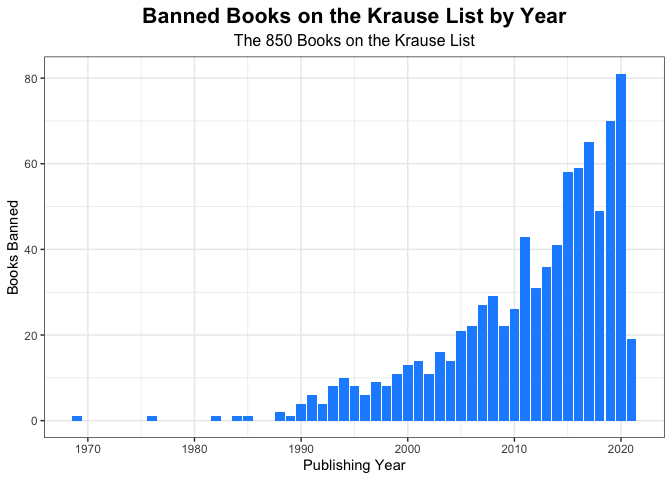
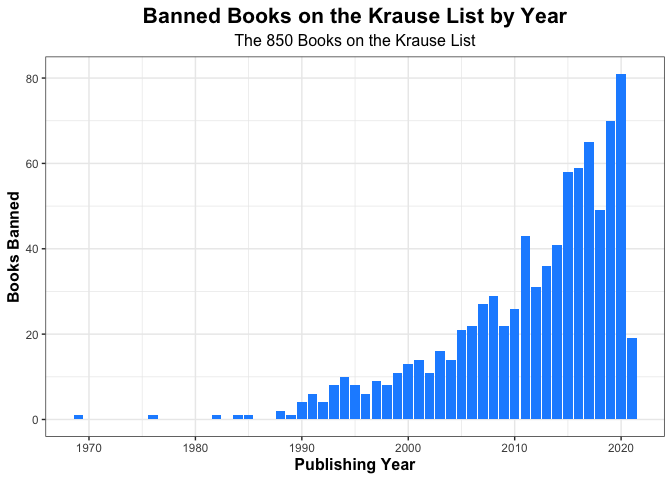
Added Author count and adjusted axis titles

diff --git a/BannedBooks.md b/BannedBooks.md
@@ -13,11 +13,23 @@ books, one PDF and on XLSX. This list can also be accessed
 
 ### By Year and Author
 
+#### By Year
+
 Below is a look at the distribution of the banned books by year.
 
-![](BannedBooks_files/figure-gfm/year-1.png)<!-- -->
+<img src="BannedBooks_files/figure-gfm/year-1.png" style="display: block; margin: auto;" />
 
 The data shows that Krause is primarily concerned with books that were
 published in the last decade, with 578 (68%) of the books published in
 2010 or later. Only two books were banned before 1980, one from the 60s
 by Michael Crichton, and the other from the 70s by Andrea Boroff Eagan.
+
+#### By Author
+
+We’ve shown there is a bias towards banning newer books. Could there be
+a bias towards specific authors?
+
+<img src="BannedBooks_files/figure-gfm/authors_chart-1.png" style="display: block; margin: auto;" />
+
+There are 661 authors represented on this list, with 552 (83.5%) having
+only one book banned.
